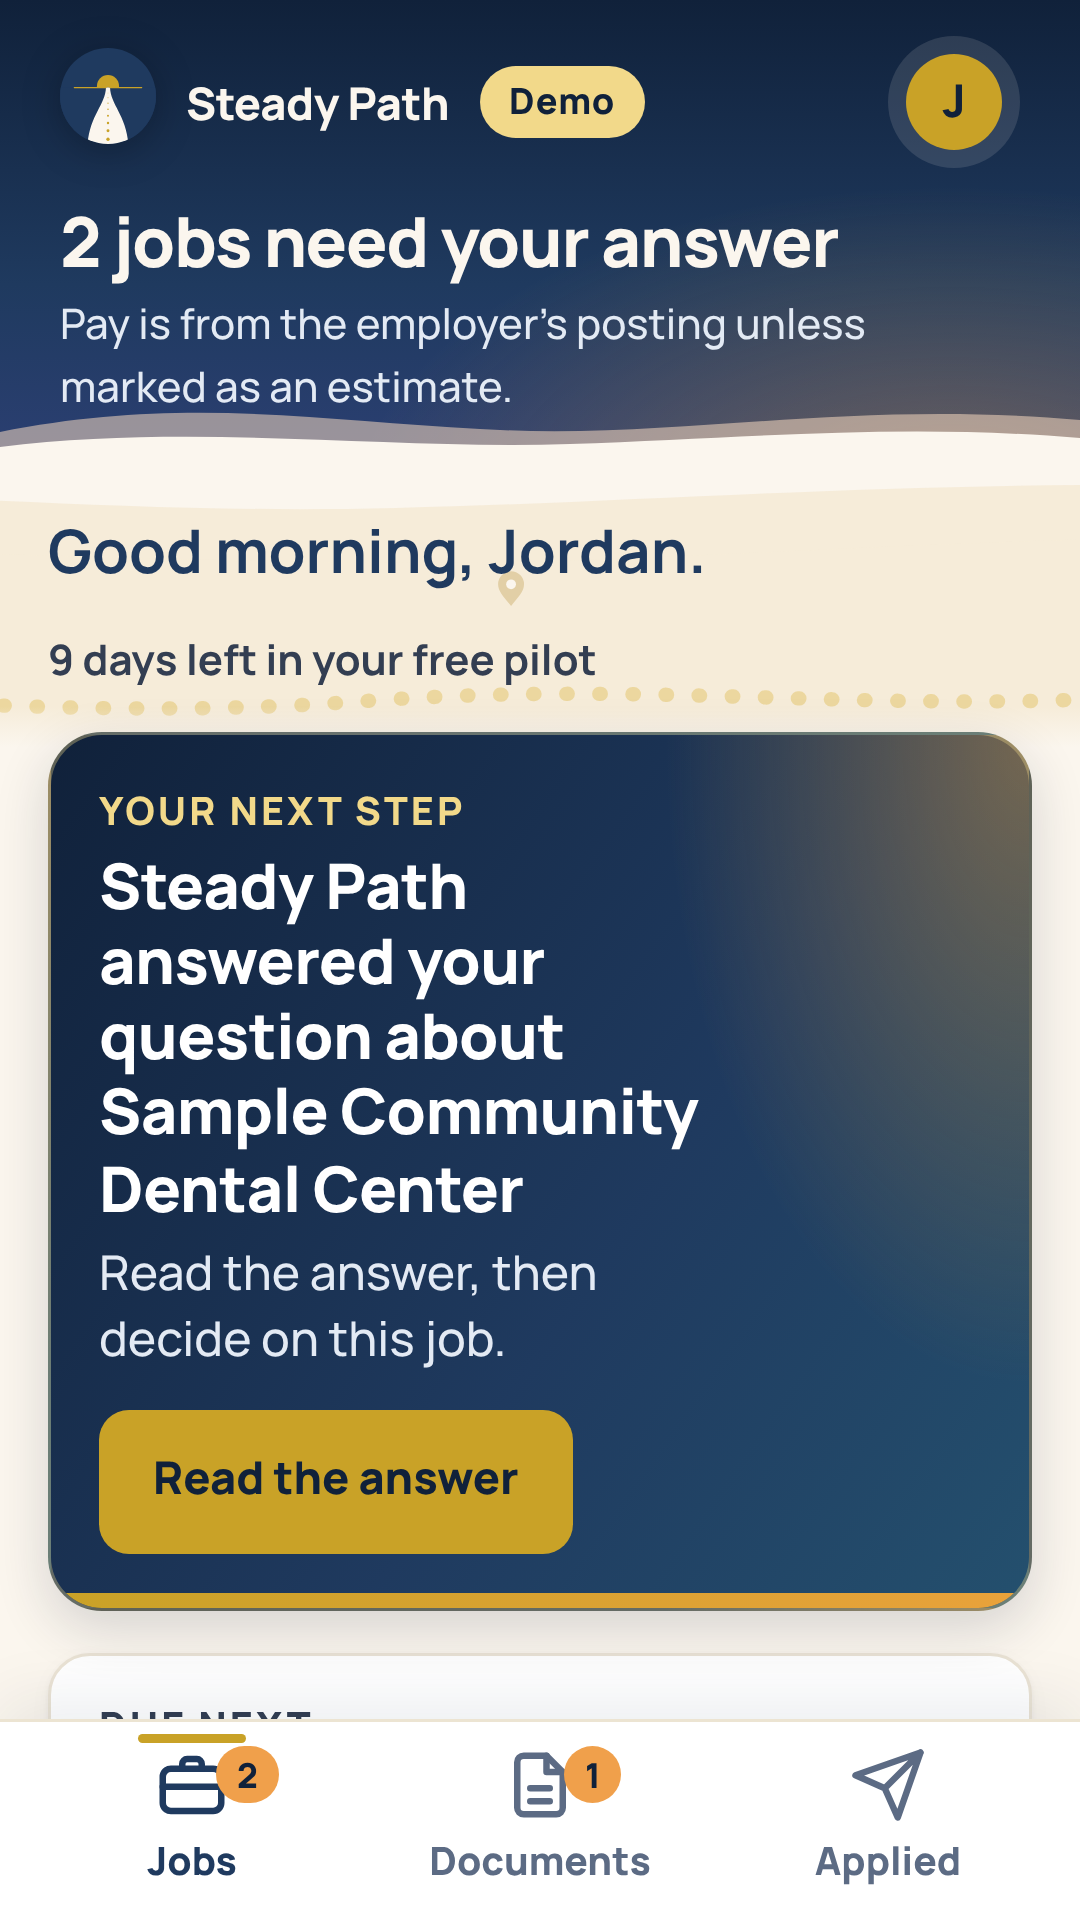
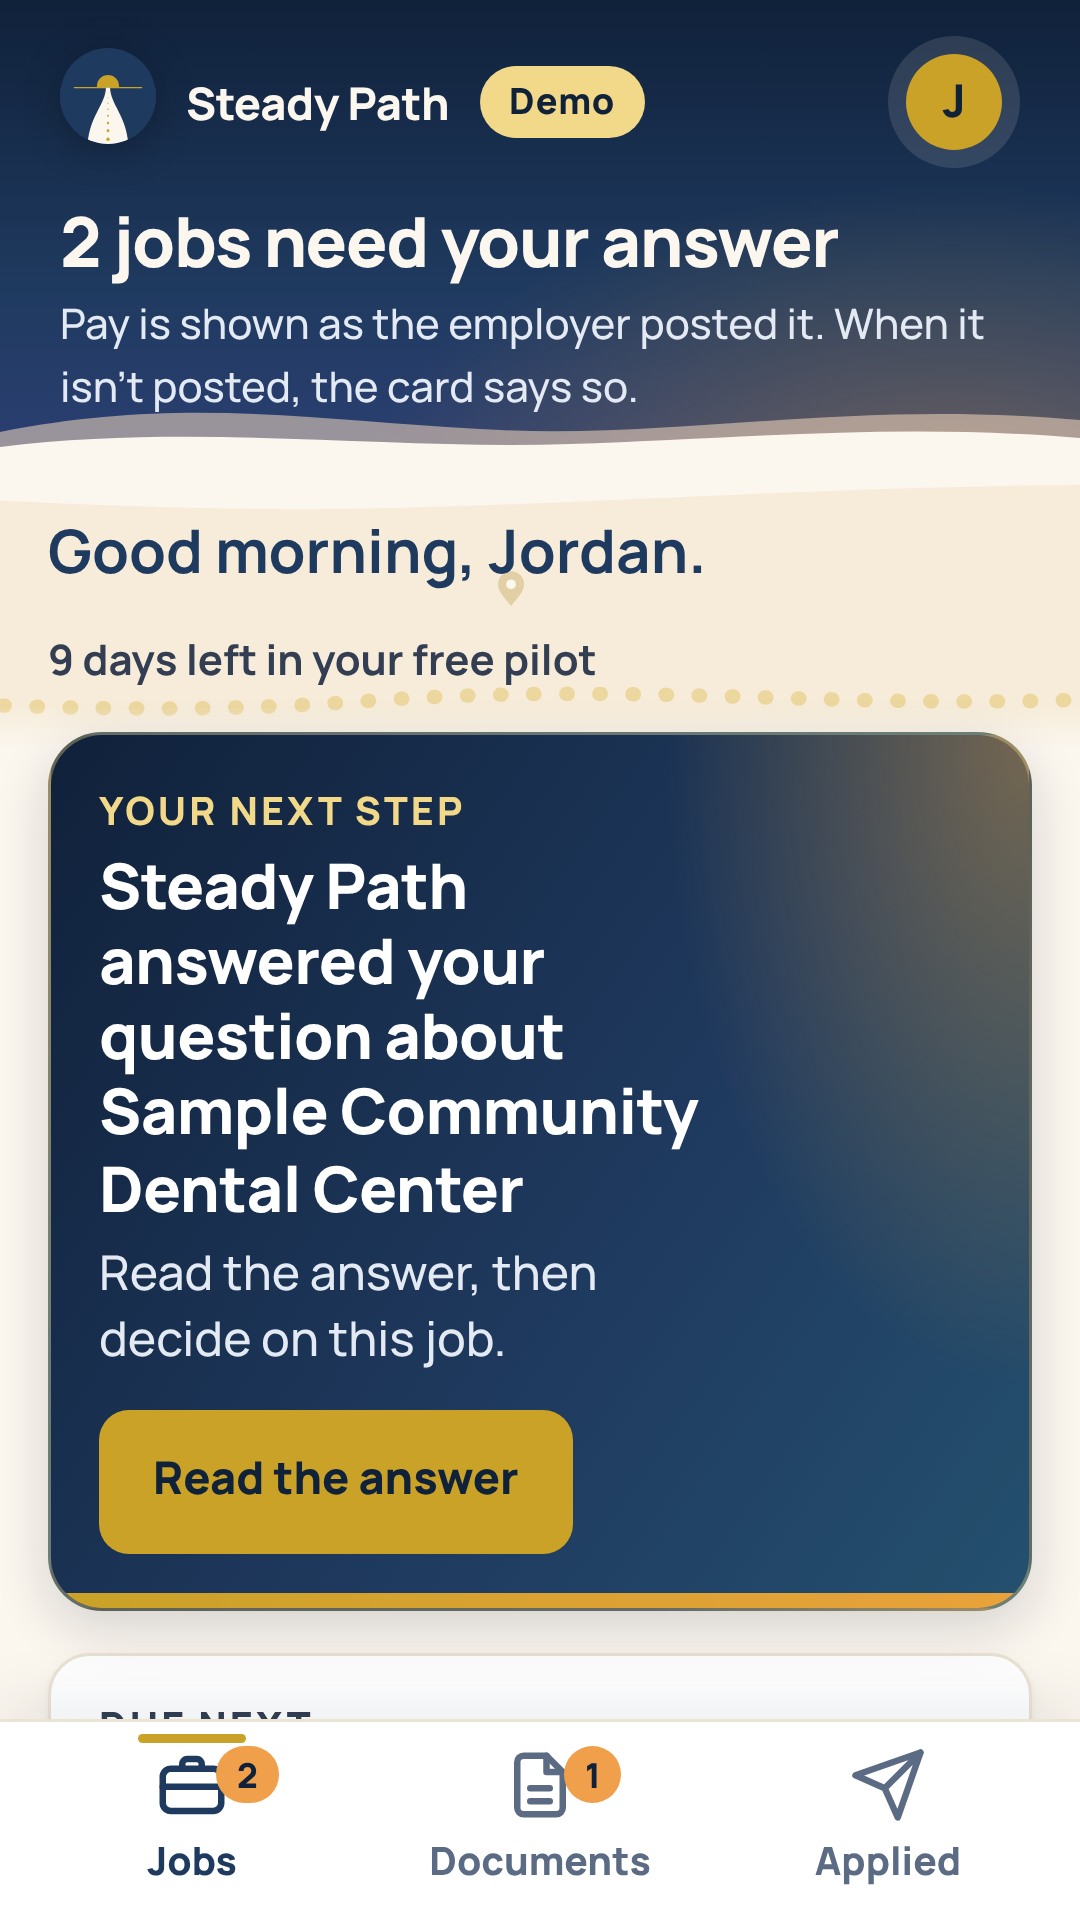
r24: re-capture Jobs screenshot with current pay wording; hide footer app link in standalone on start pages
Claude-Session: https://claude.ai/code/session_01UCpGAYpMgySPpRNWoLsjcj

Changed region(s): [[0.0611, 0.1562, 0.9167, 0.2188]]

diff --git a/start/classic/index.html b/start/classic/index.html
@@ -103,6 +103,7 @@
 .fx-ring { position: absolute; width: 64px; height: 64px; border-radius: 50%; border: 3px solid #C9A227; will-change: transform, opacity; }
 @media (max-width: 420px) { .ih-row { grid-template-columns: 72px minmax(0, 1fr); gap: 12px; } .ih-art { width: 72px; height: 58px; } .ih-art svg { width: 66px; height: 53px; } .ih-cheer { font-size: 17px; } .ihead { padding: 12px 14px 6px; } }
 @media print { .ihead { background: #fff !important; color: #000 !important; box-shadow: none; } .ih-cheer, .ih-next { color: #000 !important; } .fx-layer { display: none; } }
+@media (display-mode: standalone) { .foot nav a[href="/app/"] { display: none; } }
 </style>
 </head>
 <body class="mk">

diff --git a/start/index.html b/start/index.html
@@ -200,6 +200,7 @@ input[type=range] { width: 100%; accent-color: var(--navy); min-height: 46px; }
 .fx-p.s { width: 11px; height: 6px; border-radius: 3px; }
 .fx-p.r { border-radius: 50%; width: 8px; height: 8px; }
 .fx-ring { position: absolute; width: 64px; height: 64px; border-radius: 50%; border: 3px solid #C9A227; will-change: transform, opacity; }
+@media (display-mode: standalone) { .foot nav a[href="/app/"] { display: none; } }
 </style>
 </head>
 <body class="mk">

diff --git a/start/v2/index.html b/start/v2/index.html
@@ -201,6 +201,7 @@ input[type=range] { width: 100%; accent-color: var(--navy); min-height: 46px; }
 .fx-p.s { width: 11px; height: 6px; border-radius: 3px; }
 .fx-p.r { border-radius: 50%; width: 8px; height: 8px; }
 .fx-ring { position: absolute; width: 64px; height: 64px; border-radius: 50%; border: 3px solid #C9A227; will-change: transform, opacity; }
+@media (display-mode: standalone) { .foot nav a[href="/app/"] { display: none; } }
 </style>
 </head>
 <body class="mk">
